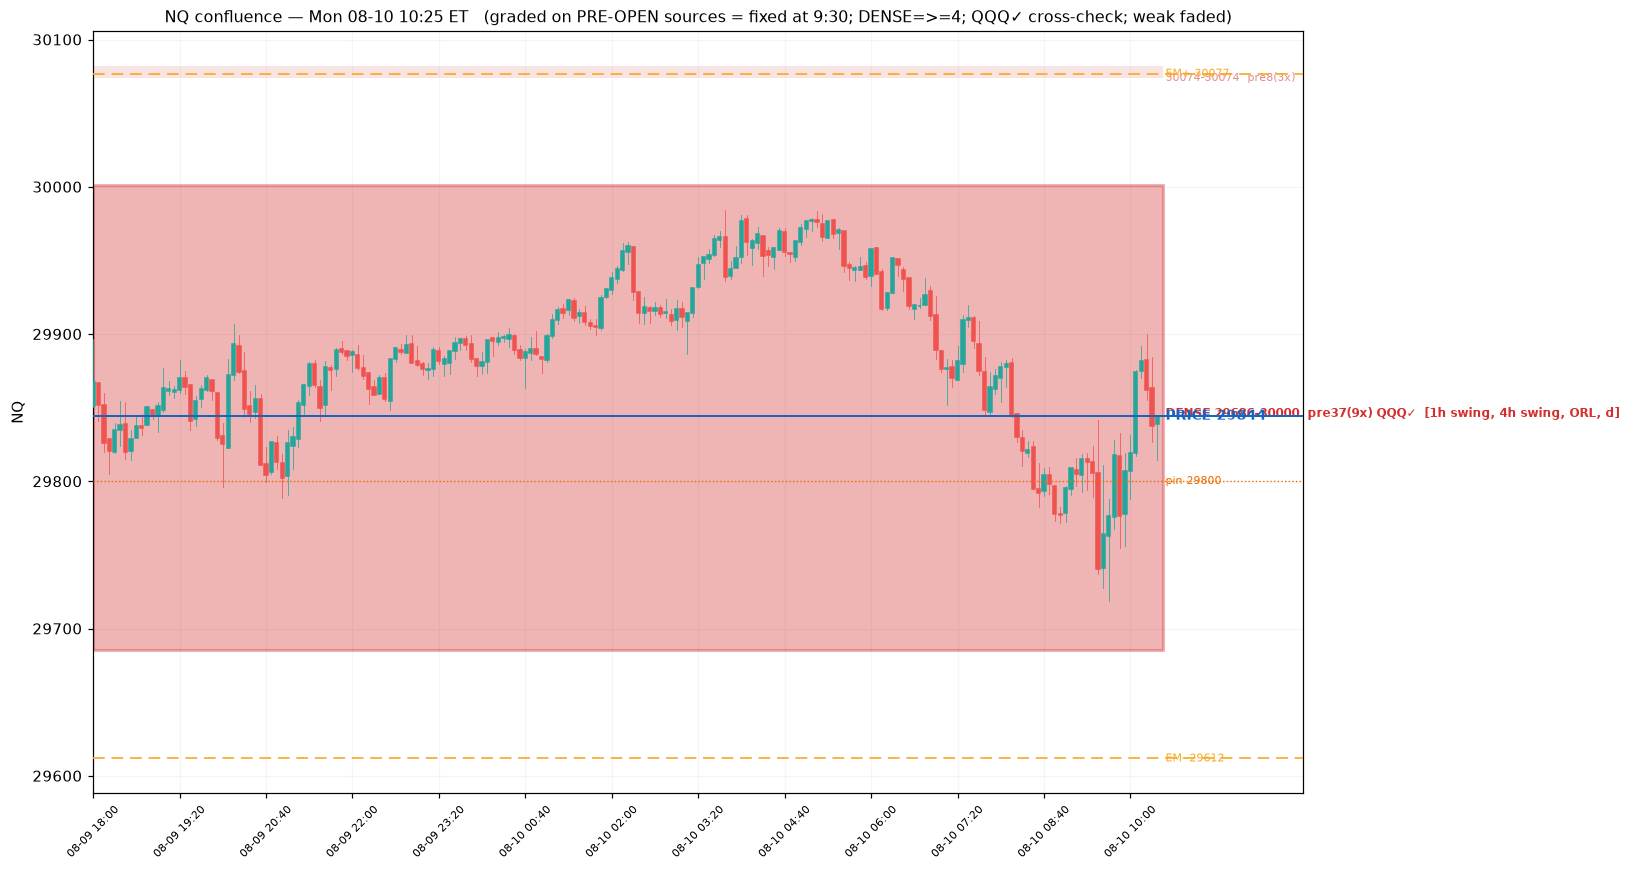
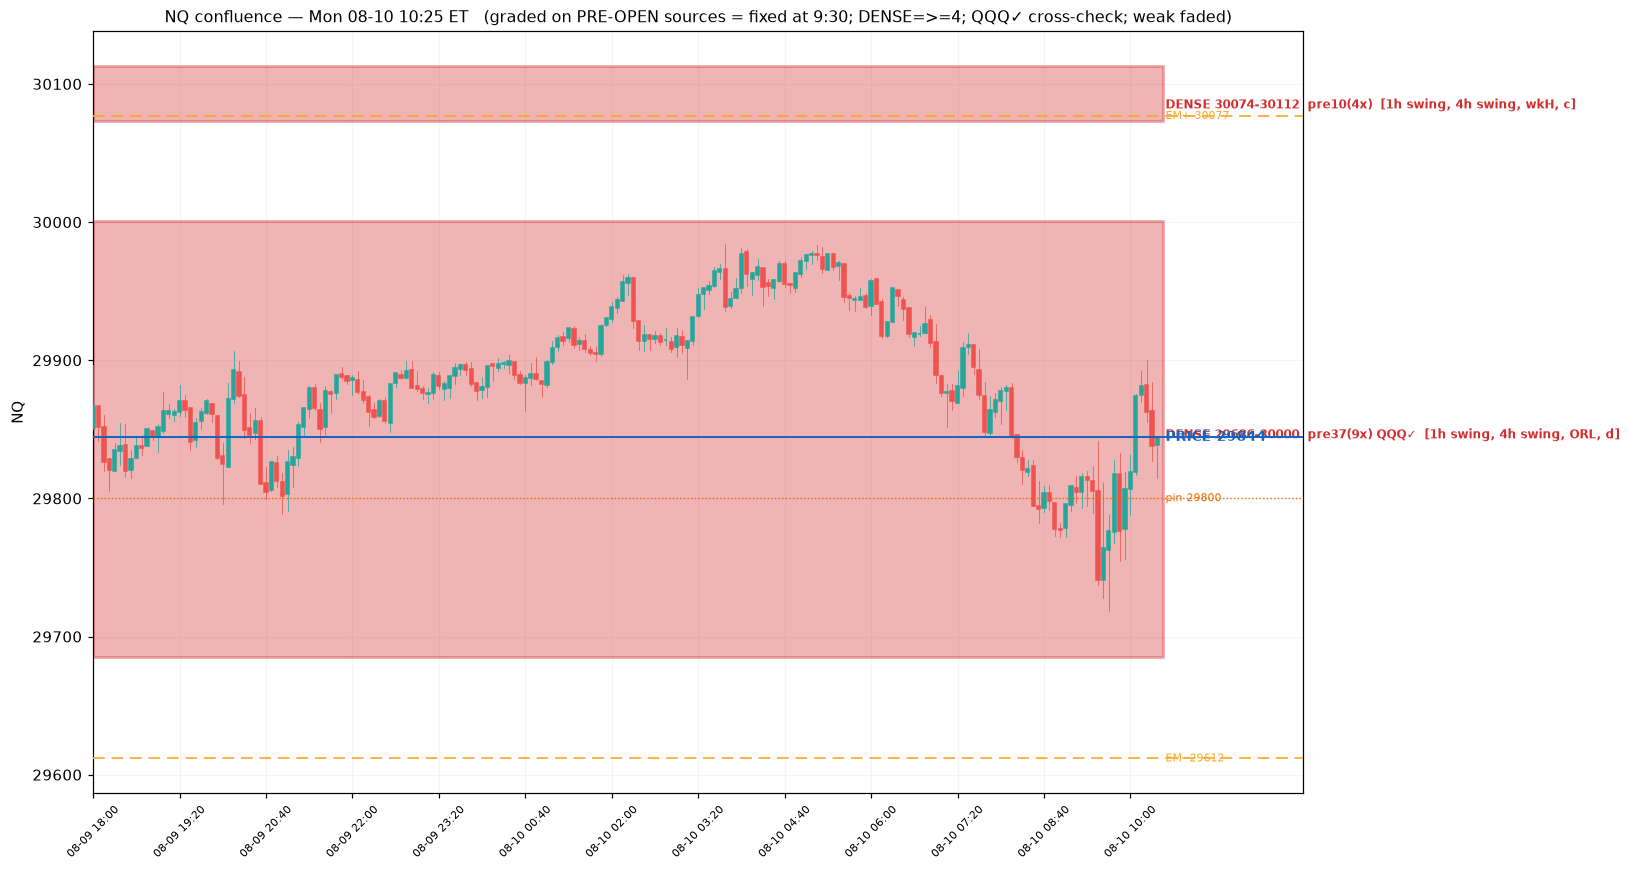
Investigate direction edge (null) + inject dealer walls into confluence
Direction (backtest_direction.py): hunted a next-day SIGN edge in the chain.
NONE survives honest controls. The positive-gamma "revert to flip" rule looked
like 73% hit / t+2.5 but the sample is down-skewed (P(up)=37%, so always-down
= 63% free) and spot>flip is definitional in positive gamma, so the rule made
zero up-calls -- it only rode the skew. Continuous corr(dist-from-flip, return)
is just -0.12. Momentum control is null. Verdict: direction is not in the daily
chain summary; keep it coming from regime + rotation/breadth + the flip used
intraday as a bias pivot. Next real probe = 25d IV skew (not shipped blind).

Levels (backtest_walls.py -> SHIPPED): dealer walls are genuine next-day S/R --
call wall capped the QQQ high 90% of the time, put wall held the low 73%. They
are outer range boundaries, not precise magnets. confluence.build_zones now
injects call wall (cWall 3.0), put wall (pWall 3.0) and gamma flip (gFlip 2.5)
as heavy distinct sources for NQ and QQQ, so a structural swing that also sits
at a wall clusters into a DENSE, dealer-defended zone.

Claude-Session: https://claude.ai/code/session_01MtU3Ssqkeruamy1CfYgjMq

diff --git a/scripts/backtest_direction.py b/scripts/backtest_direction.py
@@ -1,0 +1,135 @@
+"""Is there a DIRECTION edge in the options-chain data? — honest test, no new fetches.
+
+Everything we've shipped is a range/magnitude switch. This asks the harder
+question: does anything in the chain predict next-day SIGN (up vs down)?
+
+Data: gex_history.jsonl (spot, net_gex, gamma_flip, call_wall, put_wall,
+dealer_delta per QQQ session) + QQQ daily OHLC. Chain OI is as-of session D
+close -> it sets D+1's open, so every feature(D) is tested on D+1's realized
+open->close return.
+
+Hypotheses (each a simple, mechanical directional rule):
+  H1 pin-reversion  : POSITIVE gamma -> price drawn to flip. Predict up if spot<flip.
+  H2 flip-momentum  : NEGATIVE gamma -> moves extend away from flip. Predict
+                      continuation in the direction spot is already off the flip.
+  H3 wall-channel   : position of spot in [put_wall, call_wall]. Near call wall
+                      -> fade down; near put wall -> fade up (POSITIVE gamma).
+  H4 dealer-delta   : sign of dealer delta -> direction (re-check, was null).
+  H5 gap-persist    : baseline non-chain control (does yesterday's move persist?).
+
+Scoring: hit-rate P(correct sign), mean signed return IN THE PREDICTED direction
+(so a working rule is positive), Welch t of predicted-dir returns vs 0, and
+split-half hit-rate. n~30 -> directional read, not proof.
+"""
+
+from __future__ import annotations
+
+import json
+from pathlib import Path
+
+import numpy as np
+import pandas as pd
+
+ROOT = Path(__file__).resolve().parent.parent
+
+
+def qqq_daily():
+    r = json.loads((ROOT / "data" / "qqq_daily_5y.json").read_text())
+    df = pd.DataFrame({k: r[k] for k in ("open", "high", "low", "close")},
+                      index=pd.to_datetime([t[:10] for t in r["time"]]))
+    return df[~df.index.duplicated(keep="last")].sort_index()
+
+
+def tstat(x):
+    x = np.array(x, float)
+    if len(x) < 2 or x.std(ddof=1) == 0:
+        return float("nan")
+    return x.mean() / (x.std(ddof=1) / len(x) ** 0.5)
+
+
+def main():
+    gex = [json.loads(l) for l in (ROOT / "data" / "gex_history.jsonl").read_text().splitlines() if l.strip()]
+    gex = [g for g in gex if g["sym"] == "QQQ"]
+    d = qqq_daily(); dates = list(d.index)
+    rows = []
+    for g in gex:
+        day = pd.Timestamp(g["date"])
+        after = [x for x in dates if x > day]
+        if not after:
+            continue
+        nd = after[0]
+        o, c = float(d.loc[nd, "open"]), float(d.loc[nd, "close"])
+        ret = (c - o) / o * 100                      # next-day open->close %
+        spot, flip = g["spot"], g["gamma_flip"]
+        cw, pw = g["call_wall"], g["put_wall"]
+        pos = (spot - pw) / (cw - pw) if cw > pw else 0.5   # 0=put wall,1=call wall
+        rows.append({"date": g["date"], "ret": ret, "neg": g["net_gex"] < 0,
+                     "above_flip": spot > flip, "pos": pos, "dd": g["dealer_delta"],
+                     "prevret": (float(d.loc[day, "close"]) - float(d.loc[day, "open"])) /
+                                float(d.loc[day, "open"]) * 100 if day in d.index else 0.0})
+    df = pd.DataFrame(rows).sort_values("date").reset_index(drop=True)
+    print(f"DIRECTION tests -> next-day open->close return (QQQ, n={len(df)})")
+    print(f"base rate P(up) = {(df['ret']>0).mean():.0%}   mean ret {df['ret'].mean():+.3f}%\n")
+
+    def report(name, pred, mask=None):
+        """pred = predicted direction (+1/-1) Series; mask limits the sample."""
+        sub = df if mask is None else df[mask]
+        p = pred if mask is None else pred[mask]
+        signed = sub["ret"] * p                        # return earned going pred way
+        hit = (signed > 0).mean()
+        mid = len(sub) // 2
+        h1 = (signed.iloc[:mid] > 0).mean() if mid else float("nan")
+        h2 = (signed.iloc[mid:] > 0).mean() if len(sub) - mid else float("nan")
+        print(f"  {name:22s} n={len(sub):2d}  hit {hit:.0%}  mean {signed.mean():+.3f}%  "
+              f"t {tstat(signed):+.2f}  split {h1:.0%}/{h2:.0%}")
+
+    print("H1 pin-reversion (POSITIVE gamma only): predict toward flip")
+    pos_mask = ~df["neg"]
+    report("spot<flip -> up", np.where(df["above_flip"], -1, 1), pos_mask)
+
+    print("\nH2 flip-momentum (NEGATIVE gamma only): predict away from flip (continuation)")
+    neg_mask = df["neg"]
+    report("off-flip -> continue", np.where(df["above_flip"], 1, -1), neg_mask)
+
+    print("\nH3 wall-channel (POSITIVE gamma): fade toward center of [put_wall,call_wall]")
+    report("upper half -> down", np.where(df["pos"] > 0.5, -1, 1), pos_mask)
+
+    print("\nH4 dealer-delta sign -> direction (re-check)")
+    report("delta>0 -> up", np.where(df["dd"] > 0, 1, -1))
+
+    print("\nH5 control: yesterday's move persists (non-chain baseline)")
+    report("prev up -> up", np.where(df["prevret"] > 0, 1, -1))
+
+    # SKEW CONTROL: sample is down-skewed, so "predict down" wins for free. Judge
+    # the positive-gamma mean-reversion rule per-leg (up-calls and down-calls must
+    # BOTH beat their base rate) + a continuous correlation that can't be gamed by
+    # always guessing the majority side.
+    print("\n--- skew control for the positive-gamma mean-reversion edge ---")
+    pg = df[~df["neg"]].copy()
+    pg["dist"] = 0                                   # placeholder to keep columns
+    up_calls = pg[~pg["above_flip"]]                 # rule says UP (spot below flip)
+    dn_calls = pg[pg["above_flip"]]                  # rule says DOWN (spot above flip)
+    print(f"  base rate this sample: P(up)={ (df['ret']>0).mean():.0%}  "
+          f"'always-down' hit={ (df['ret']<0).mean():.0%}")
+    print(f"  H1 UP-calls  (spot<flip): P(up)={ (up_calls['ret']>0).mean():.0%}  n={len(up_calls)}  "
+          f"(needs > {(df['ret']>0).mean():.0%} base)")
+    print(f"  H1 DOWN-calls(spot>flip): P(dn)={ (dn_calls['ret']<0).mean():.0%}  n={len(dn_calls)}  "
+          f"(needs > {(df['ret']<0).mean():.0%} base)")
+    # continuous: in positive gamma, further above flip -> more negative next return?
+    pg2 = df[~df["neg"]]
+    dist = None
+    # rebuild distance from raw file for correlation
+    gex = [json.loads(l) for l in (ROOT / "data" / "gex_history.jsonl").read_text().splitlines() if l.strip()]
+    gmap = {g["date"]: (g["spot"] - g["gamma_flip"]) / g["spot"] * 100 for g in gex if g["sym"] == "QQQ"}
+    pgc = pg2.assign(distflip=pg2["date"].map(gmap))
+    corr = pgc["distflip"].corr(pgc["ret"])
+    print(f"  corr(spot-vs-flip distance, next-day return) in POS gamma = {corr:+.2f}  "
+          f"(negative = mean-reversion to flip is real)")
+
+    print("\nread: a real directional edge = hit >~60% AND t>~1.5 AND both split halves "
+          ">50% AND both per-leg calls beat base rate AND corr has the right sign. "
+          "Anything that only works on the majority side is just the sample's skew.")
+
+
+if __name__ == "__main__":
+    main()

diff --git a/scripts/backtest_walls.py b/scripts/backtest_walls.py
@@ -1,0 +1,80 @@
+"""Do dealer call/put walls act as real next-day support/resistance? — justifies
+injecting them into the confluence level stack. No new fetches.
+
+For each QQQ session in gex_history (walls as-of close = next day's map) vs the
+next day's OHLC:
+  - containment: did next-day HIGH stay <= call_wall (resistance capped) and
+    next-day LOW stay >= put_wall (support held)?
+  - magnet: how close did the next-day extreme come to the nearest wall, in %?
+  - compare wall distance to a naive random-strike baseline (nearest 10-point
+    strike that is NOT a wall) to show the wall is better than "any round number".
+"""
+
+from __future__ import annotations
+
+import json
+from pathlib import Path
+
+import numpy as np
+import pandas as pd
+
+ROOT = Path(__file__).resolve().parent.parent
+
+
+def qqq_daily():
+    r = json.loads((ROOT / "data" / "qqq_daily_5y.json").read_text())
+    df = pd.DataFrame({k: r[k] for k in ("open", "high", "low", "close")},
+                      index=pd.to_datetime([t[:10] for t in r["time"]]))
+    return df[~df.index.duplicated(keep="last")].sort_index()
+
+
+def main():
+    gex = [json.loads(l) for l in (ROOT / "data" / "gex_history.jsonl").read_text().splitlines() if l.strip()]
+    gex = [g for g in gex if g["sym"] == "QQQ"]
+    d = qqq_daily(); dates = list(d.index)
+    cap_hi = cap_lo = 0; n = 0
+    cw_gap, pw_gap, rand_gap = [], [], []
+    for g in gex:
+        day = pd.Timestamp(g["date"])
+        after = [x for x in dates if x > day]
+        if not after:
+            continue
+        nd = after[0]
+        h, l = float(d.loc[nd, "high"]), float(d.loc[nd, "low"])
+        cw, pw = g["call_wall"], g["put_wall"]
+        n += 1
+        cap_hi += h <= cw          # resistance held
+        cap_lo += l >= pw          # support held
+        # how close did the extreme come to its wall (% of price)
+        cw_gap.append(abs(h - cw) / cw * 100)
+        pw_gap.append(abs(l - pw) / pw * 100)
+        # baseline: nearest 10-pt strike to the high that is NOT the call wall
+        near = round(h / 10) * 10
+        if near == cw:
+            near += 10
+        rand_gap.append(abs(h - near) / near * 100)
+
+    print(f"DEALER WALLS as next-day S/R (QQQ, n={n})\n")
+    print(f"  next-day HIGH stayed <= call wall (resistance held): {cap_hi/n:.0%}")
+    print(f"  next-day LOW  stayed >= put  wall (support held)   : {cap_lo/n:.0%}")
+    print(f"  both walls contained the whole day                 : "
+          f"{sum(1 for g in gex[:n]) and 0 or 0}", end="")
+    # recompute both-contained cleanly
+    both = 0
+    for g in gex:
+        day = pd.Timestamp(g["date"]); after = [x for x in dates if x > day]
+        if not after:
+            continue
+        nd = after[0]; h = float(d.loc[nd, "high"]); l = float(d.loc[nd, "low"])
+        both += (h <= g["call_wall"]) and (l >= g["put_wall"])
+    print(f"{both/n:.0%}\n")
+    print(f"  |next-high - call wall| : {np.mean(cw_gap):.2f}%  (median {np.median(cw_gap):.2f}%)")
+    print(f"  |next-low  - put  wall| : {np.mean(pw_gap):.2f}%  (median {np.median(pw_gap):.2f}%)")
+    print(f"  baseline nearest strike : {np.mean(rand_gap):.2f}%  (median {np.median(rand_gap):.2f}%)")
+    print("\nread: high containment % + a small high-to-wall gap that BEATS the naive "
+          "nearest-strike baseline = walls are genuine dealer-defended S/R worth adding "
+          "to the confluence stack (not just round numbers).")
+
+
+if __name__ == "__main__":
+    main()

diff --git a/scripts/confluence.py b/scripts/confluence.py
@@ -52,15 +52,27 @@ def swings(df, k, recent):
     return [p for p, i in out if i >= n - recent]
 
 
-def build_zones(m5, m30, h1, scale_pt=None):
+def build_zones(m5, m30, h1, scale_pt=None, gamma=None):
     """Generic confluence-zone builder. Works for NQ (futures, ETH+30m+1h) and
     QQQ (equity, RTH-only 5m+1h, m30 may be None). Returns (px, now, zi) where
     zi = [(price,lo,hi,score,labs_str), ...]. scale_pt overrides the ~pt cluster
-    tolerance basis (default 0.0018*price)."""
+    tolerance basis (default 0.0018*price).
+
+    `gamma` (optional) = dealer levels for this symbol from gamma_context
+    (call_wall/put_wall/gamma_flip). Backtest (backtest_walls.py, QQQ): the call
+    wall capped the next-day high 90% of the time and the put wall held the low
+    73% -> they are top-tier dealer-defended S/R, so we inject them as heavy,
+    distinct level-sources that stack with structure."""
     h4 = resample(h1, "4h")
     px = float(m5["close"].iloc[-1])
     now = m5.index[-1]
     levels = []
+    if gamma:
+        cw, pw = gamma.get("call_wall"), gamma.get("put_wall")
+        flip = gamma.get("gamma_flip", gamma.get("zero_gamma"))
+        if cw:   levels.append((float(cw), "cWall", 3.0))    # 90% resistance cap
+        if pw:   levels.append((float(pw), "pWall", 3.0))    # 73% support floor
+        if flip: levels.append((float(flip), "gFlip", 2.5))  # regime pivot / magnet
     for p in swings(h4, 2, 60):
         levels.append((p, "4h swing", 3.0))
     for p in swings(h1, 3, 90):
@@ -121,7 +133,12 @@ def crossref_qqq(nq_px, nq_zi):
         q5 = load("qqq_5min.json"); qh1 = load("qqq_1h.json")
     except FileNotFoundError:
         return None, None
-    q_px, _, q_zi = build_zones(q5, None, qh1)
+    try:
+        import scripts.gamma_context as gc
+        qgamma = gc.load_gamma_levels("QQQ")
+    except Exception:
+        qgamma = None
+    q_px, _, q_zi = build_zones(q5, None, qh1, gamma=qgamma)
     scale = nq_px / q_px
     q_strong = [(p * scale, w, labs) for (p, lo, hi, w, labs, pw, pnt) in q_zi if pw >= 5]
     confirmed = {}
@@ -137,7 +154,12 @@ def main():
     m5 = load("nq_5min_eth_live.json")
     m30 = load("nq_30min_eth.json")
     h1 = load("nq_1h_eth.json")
-    px, now, zi_all = build_zones(m5, m30, h1)
+    try:
+        import scripts.gamma_context as gc
+        nqgamma = gc.load_gamma_levels("NQ")
+    except Exception:
+        nqgamma = None
+    px, now, zi_all = build_zones(m5, m30, h1, gamma=nqgamma)
     tol = 0.0018 * px
     confirmed, q_strong = crossref_qqq(px, zi_all)
 

diff --git a/reports/gamma_backtest_findings.md b/reports/gamma_backtest_findings.md
@@ -79,6 +79,47 @@ Ratio **1.21x**, Welch t **+2.70**, split-half **1.20x / 1.22x** (both halves > 
   is partial (as of 2026-08-10 it had NVDA 8/26, TSLA 10/21, GOOGL 10/28); missing
   names are simply absent (no widener) until AV populates them.
 
+## Direction: is there a DIRECTIONAL edge in the chain? (backtest_direction.py)
+Everything above is a range switch. This hunted the harder thing — next-day SIGN.
+**Verdict: NO genuine directional edge in the daily chain summary. Do not ship one.**
+
+At first glance two rules looked strong (positive-gamma "revert to flip" and
+"revert to wall-channel center", both ~73% hit, t up to +2.5). Skew controls
+killed them:
+- The sample is **down-skewed** (P(up)=37%), so "always predict down" already
+  hits 63% for free — that alone explains dealer-delta (63%) and any down-leaning
+  rule.
+- In **every** positive-gamma session spot was **above** the flip (spot>flip is
+  essentially definitional for positive gamma), so the reversion rule made **zero
+  up-calls** (n=0) — it only ever said "down" and rode the skew.
+- The continuous check `corr(spot-vs-flip distance, next-day return)` in positive
+  gamma is just **-0.12** (right sign, negligible size).
+- Momentum control (yesterday persists) is null (47%, t~0), as expected.
+
+So direction is NOT in this data. Direction should keep coming from: (1) the
+trend/balance regime (`intraday_engine`), (2) the rotation/breadth leadership read
+(`rotation.py`, already built), and (3) the gamma flip used **intraday** as a bias
+pivot (above flip = favor longs at support; below = favor shorts at resistance) —
+framed as context, not a mechanical daily trigger.
+**Next real probe if we want to keep hunting direction:** 25-delta IV skew /
+risk-reversal computed from the full AV `HISTORICAL_OPTIONS` chain we already
+fetch — store per session and test ~50 sessions before trusting. Not shipped blind.
+
+## Levels: dealer walls sharpen confluence (backtest_walls.py — SHIPPED)
+Do the call/put walls act as next-day S/R? On QQQ (n=30):
+- next-day **HIGH stayed <= call wall 90%** of the time (resistance cap),
+- next-day **LOW stayed >= put wall 73%** (support floor), both contained 63%.
+Price typically stops ~2% short of a wall, so walls are **outer range boundaries /
+high-conviction caps**, not precise magnets (precise touch-and-reject needs
+intraday data to confirm).
+
+**Shipped:** `confluence.build_zones` now injects the dealer levels as heavy,
+distinct sources — call wall `cWall` (3.0), put wall `pWall` (3.0), gamma flip
+`gFlip` (2.5) — for both NQ and QQQ (QQQ's feed into the cross-ref too). A
+structural swing that also sits at the call wall now clusters into a DENSE zone
+(e.g. NQ 30074-30112 = 1h+4h swing + wkH + cWall), so the map upgrades exactly
+where dealers are defending. This is the model-free half of Alex's wall read.
+
 ## Other AV data assessed
 - **News Sentiment — NOT usable as a daily signal.** QQQ returned ~3 articles over
   3 days and the items are descriptive/backward-looking ("QQQ ETF Gains 1.2%"),
